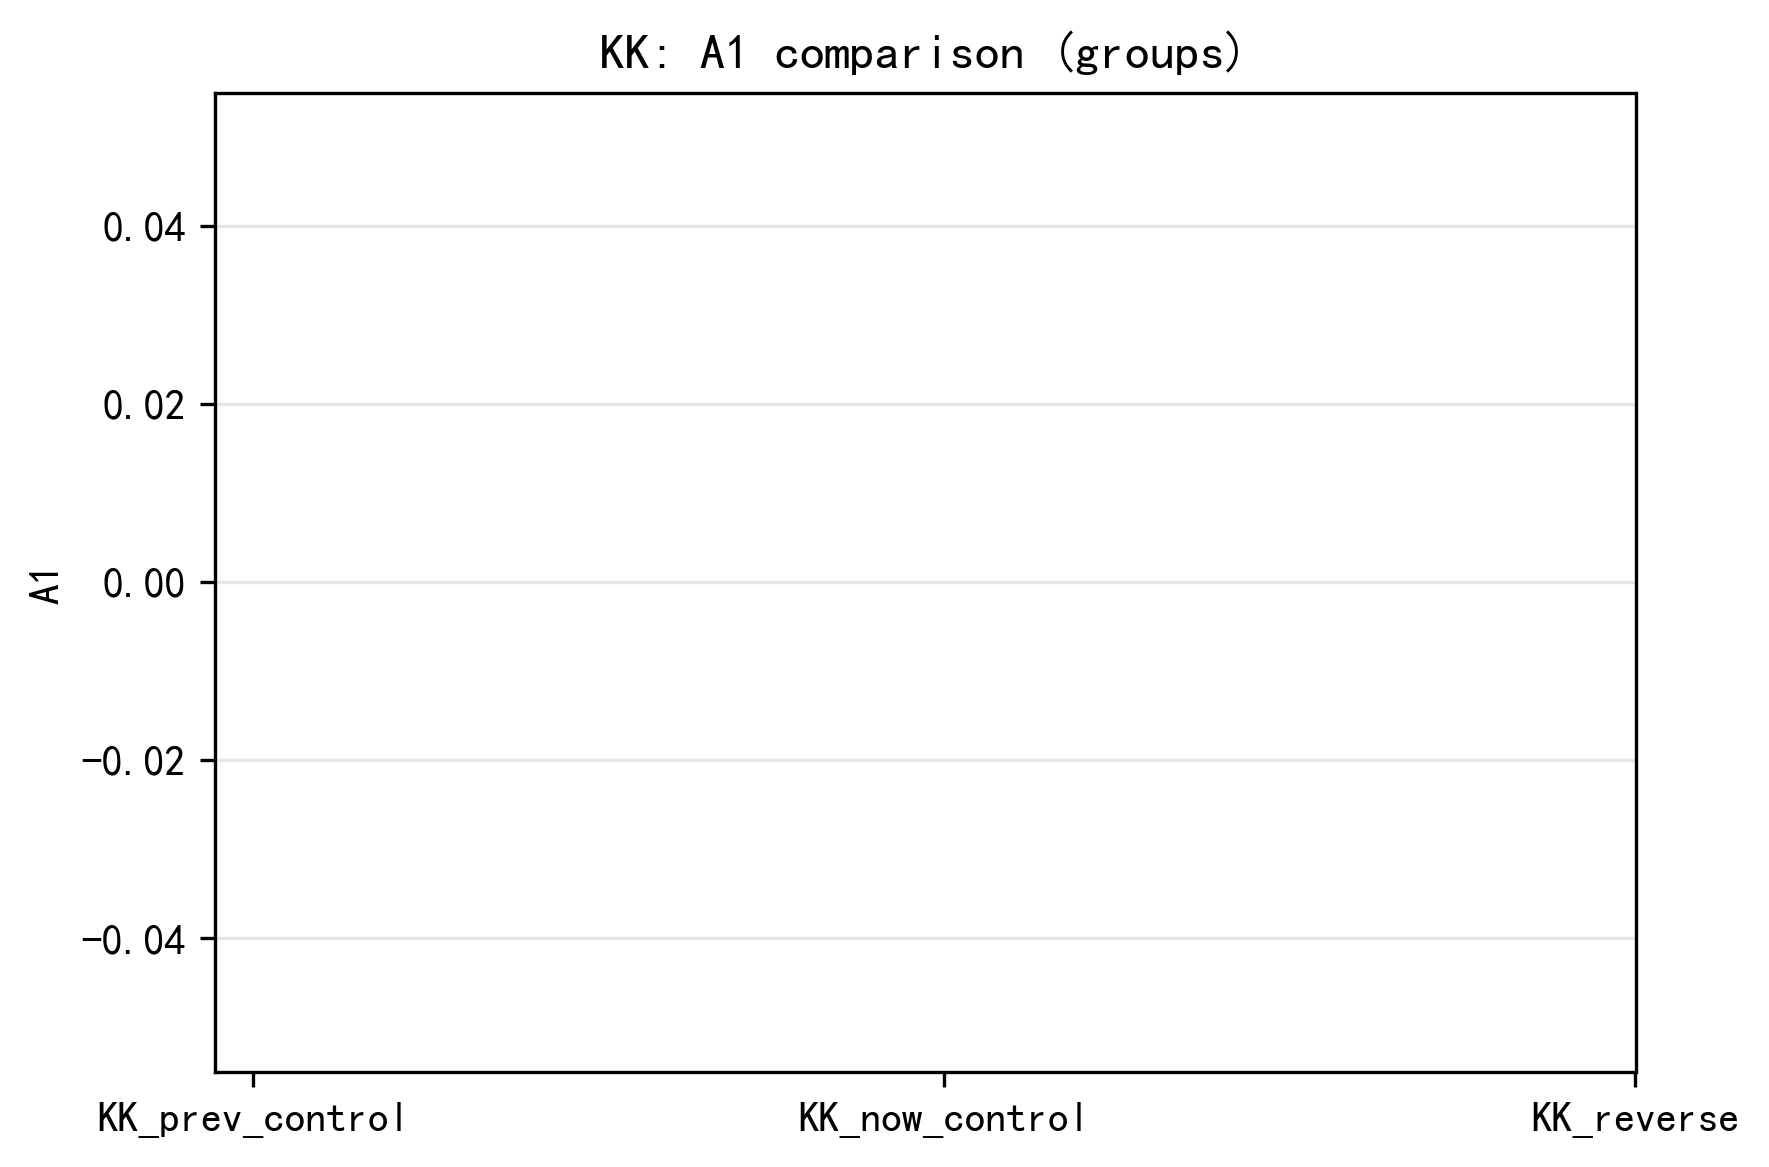
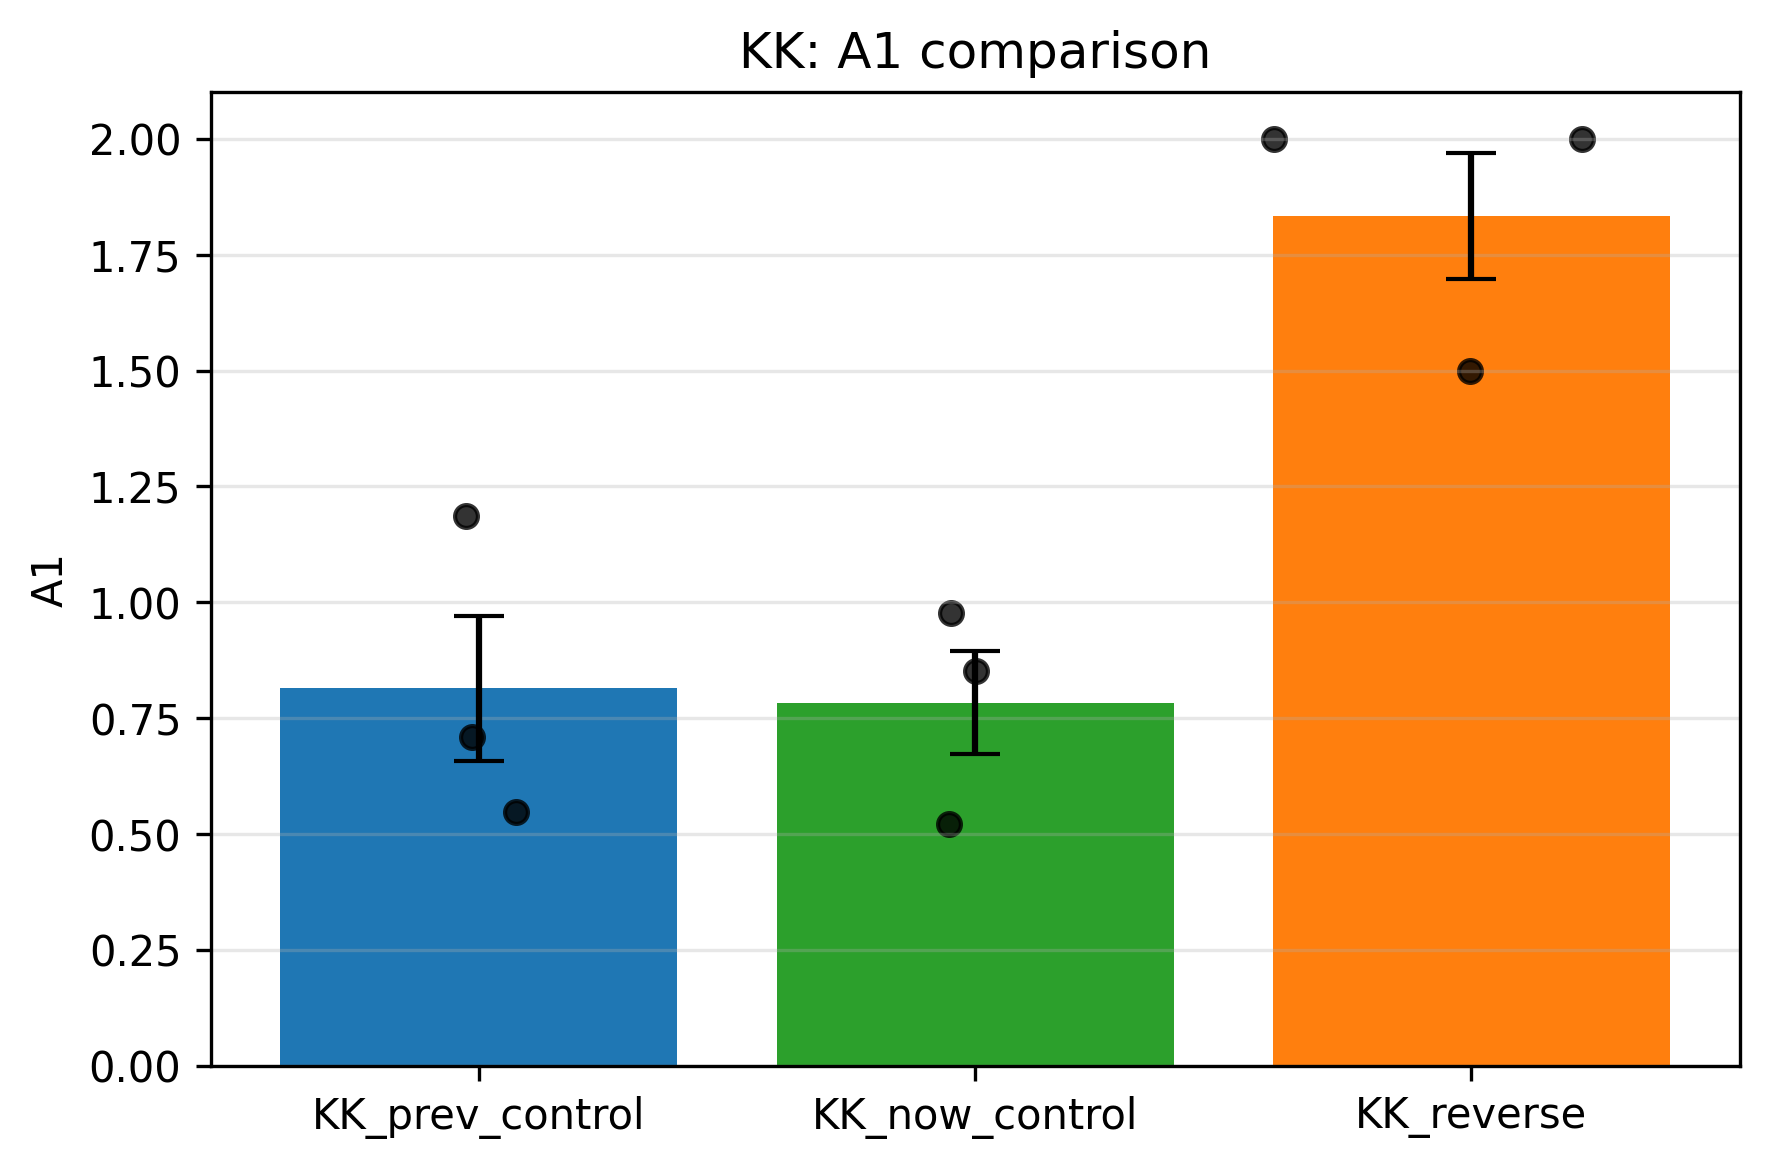
12

diff --git a/public/velocity_curve_analysis_cameraJump/kk_only.py b/public/velocity_curve_analysis_cameraJump/kk_only.py
@@ -35,8 +35,8 @@ def get_A1_from_file(p: Path):
         # 兼容部分文件把 A1 存在其它列名的情况（尝试 Velocity/Amplitude fallback）
         if "Amplitude1" in df.columns:
             return float(df["Amplitude1"].iloc[-1])
-    except Exception:
-        pass
+    except Exception as e:
+        print(f"Error reading A1 from {p}: {e}")
     return np.nan
 
 def get_params_from_file(p: Path):
@@ -127,15 +127,32 @@ def analyze_and_plot_A1_comparison(group_paths_list, group_names=None, out_png=N
     ax.set_xticks(x)
     ax.set_xticklabels(group_names)
     ax.set_ylabel('A1')
-    ax.set_title('KK: A1 comparison (groups)')
+    ax.set_title('KK: A1 comparison')
     ax.grid(axis='y', alpha=0.3)
 
     # overlay individual points with jitter
     for i, vals in enumerate(values_all):
         if vals.size == 0:
             continue
-        jitter = np.random.normal(0, 0.05, size=vals.size)
-        ax.scatter(np.full(vals.shape, x[i]) + jitter, vals, color='k', alpha=0.8, s=30)
+        
+        # 增加抖动强度，特别是对于相同值的点
+        base_jitter = 0.1  # 基础抖动范围
+        unique_vals, counts = np.unique(vals, return_counts=True)
+        
+        # 为每个值生成抖动位置
+        x_positions = []
+        for val in vals:
+            count = counts[unique_vals == val][0]
+            if count > 1:
+                # 对于重复值，使用更大的抖动
+                jitter_strength = base_jitter * (1 + count * 0.3)
+            else:
+                jitter_strength = base_jitter * 0.5
+            
+            jitter = np.random.normal(0, jitter_strength)
+            x_positions.append(x[i] + jitter)
+        
+        ax.scatter(x_positions, vals, color='k', alpha=0.8, s=30)
 
     plt.tight_layout()
     if out_png is None:
@@ -181,28 +198,108 @@ def analyze_groups_params_and_plot(group_paths_list, group_names=None, out_png=N
             else:
                 print(f"  {k}: n={arr.size}, mean={np.nanmean(arr):.4f}, std={np.nanstd(arr):.4f}, values={np.round(arr,4).tolist()}")
 
-    # 为条形图准备 A1 数据并调用现有绘图函数（保持向后兼容）
-    a1_groups = [np.array(g['A1'], dtype=float) for g in groups_params]
-    analyze_and_plot_A1_comparison(a1_groups, group_names=group_names, out_png=out_png or "KK_A1_comparison.png")
+    # 为所有参数绘制条形图
+    params_to_plot = ['V0', 'A1', 'φ1', 'A2', 'φ2']
+    
+    # 创建子图
+    fig, axes = plt.subplots(2, 3, figsize=(15, 10))
+    axes = axes.flatten()
+    
+    for param_idx, param in enumerate(params_to_plot):
+        ax = axes[param_idx]
+        
+        # 准备当前参数的数据
+        param_groups = [np.array(g[param], dtype=float) for g in groups_params]
+        
+        # 计算统计数据
+        means = []
+        stds = []
+        counts = []
+        for vals in param_groups:
+            counts.append(len(vals))
+            means.append(float(np.nan) if vals.size == 0 else float(np.nanmean(vals)))
+            stds.append(float(np.nan) if vals.size == 0 else float(np.nanstd(vals, ddof=0)))
+
+        # 画条形图（均值 + std error）
+        x = np.arange(len(group_names))
+        errs = [ (stds[i] / np.sqrt(counts[i])) if counts[i] > 0 else 0.0 for i in range(len(group_names)) ]
+
+        bars = ax.bar(x, means, yerr=errs, capsize=6, color=['#1f77b4','#2ca02c','#ff7f0e'][:len(group_names)])
+        ax.set_xticks(x)
+        ax.set_xticklabels(group_names, rotation=45, ha='right')
+        ax.set_ylabel(param)
+        ax.set_title(f'KK: {param} comparison')
+        ax.grid(axis='y', alpha=0.3)
+
+        # overlay individual points with jitter
+        for i, vals in enumerate(param_groups):
+            if vals.size == 0:
+                continue
+            
+            # 增加抖动强度，特别是对于相同值的点
+            base_jitter = 0.1  # 基础抖动范围
+            unique_vals, counts_unique = np.unique(vals, return_counts=True)
+            
+            # 为每个值生成抖动位置
+            x_positions = []
+            for val in vals:
+                count = counts_unique[unique_vals == val][0]
+                if count > 1:
+                    # 对于重复值，使用更大的抖动
+                    jitter_strength = base_jitter * (1 + count * 0.3)
+                else:
+                    jitter_strength = base_jitter * 0.5
+                
+                jitter = np.random.normal(0, jitter_strength)
+                x_positions.append(x[i] + jitter)
+            
+            ax.scatter(x_positions, vals, color='k', alpha=0.8, s=20)
+
+        # 打印当前参数的统计信息
+        print(f"\n=== {param} Bar Chart Data ===")
+        for name, cnt, m, s, vals in zip(group_names, counts, means, stds, param_groups):
+            if cnt == 0:
+                print(f"{name}: no valid {param} values found.")
+            else:
+                print(f"{name}: n={cnt}, mean {param} = {m:.4f}, std = {s:.4f}, values = {np.round(vals,4).tolist()}")
+
+    # 删除多余的子图
+    if len(params_to_plot) < len(axes):
+        axes[-1].remove()
+
+    plt.tight_layout()
+    if out_png is None:
+        out_png = "KK_all_parameters_comparison.png"
+    out_path = Path(out_png).resolve()
+    fig.savefig(out_path, dpi=300, bbox_inches='tight')
+    print(f"Saved all parameters comparison figure to: {out_path}  (exists={out_path.exists()})")
+
+    # 显示图表
+    try:
+        plt.show()
+    except Exception as e:
+        print("plt.show() failed:", e)
+        print("You can open the saved image file manually.")
+    plt.close(fig)
 
 def main():
     #之前的control数据
     extra_paths1 = [
-        Path(r"D:\vectionProject\public\BrightnessData\20250709_152809_Fps1_CameraSpeed1_ExperimentPattern_Phase_ParticipantName_KK_TrialNumber_1_BrightnessBlendMode_LinearOnly.csv"),
-        Path(r"D:\vectionProject\public\BrightnessData\20250709_151437_Fps1_CameraSpeed1_ExperimentPattern_Phase_ParticipantName_KK_TrialNumber_3_BrightnessBlendMode_LinearOnly.csv"),
-        Path(r"D:\vectionProject\public\BrightnessData\20250709_154001_Fps1_CameraSpeed1_ExperimentPattern_Phase_ParticipantName_KK_TrialNumber_2_BrightnessBlendMode_LinearOnly.csv"),
+        Path("../BrightnessData/20250709_152809_Fps1_CameraSpeed1_ExperimentPattern_Phase_ParticipantName_KK_TrialNumber_1_BrightnessBlendMode_LinearOnly.csv"),
+        Path("../BrightnessData/20250709_151437_Fps1_CameraSpeed1_ExperimentPattern_Phase_ParticipantName_KK_TrialNumber_3_BrightnessBlendMode_LinearOnly.csv"),
+        Path("../BrightnessData/20250709_154001_Fps1_CameraSpeed1_ExperimentPattern_Phase_ParticipantName_KK_TrialNumber_2_BrightnessBlendMode_LinearOnly.csv"),
     ]
     #现在的control数据
     extra_paths2 = [
-        Path(r"D:\vectionProject\public\ExperimentData3\20251102_181429_Fps1_CameraSpeed1_ExperimentPattern_Phase_ParticipantName_KK_TrialNumber_1_LinearOnly.csv"),
-        Path(r"D:\vectionProject\public\ExperimentData3\20251102_180357_Fps1_CameraSpeed1_ExperimentPattern_Phase_ParticipantName_KK_TrialNumber_2_LinearOnly.csv"),
-        Path(r"D:\vectionProject\public\ExperimentData3\20251102_181106_Fps1_CameraSpeed1_ExperimentPattern_Phase_ParticipantName_KK_TrialNumber_3_LinearOnly.csv"),
+        Path("../ExperimentData3/20251102_181429_Fps1_CameraSpeed1_ExperimentPattern_Phase_ParticipantName_KK_TrialNumber_1_LinearOnly.csv"),
+        Path("../ExperimentData3/20251102_180357_Fps1_CameraSpeed1_ExperimentPattern_Phase_ParticipantName_KK_TrialNumber_2_LinearOnly.csv"),
+        Path("../ExperimentData3/20251102_181106_Fps1_CameraSpeed1_ExperimentPattern_Phase_ParticipantName_KK_TrialNumber_3_LinearOnly.csv"),
     ]
     #现在的反方向数据
     extra_paths3 = [
-        Path(r"D:\vectionProject\public\ExperimentData33\20251104_155123_Fps1_CameraSpeed1_ExperimentPattern_CameraJumpMove_ParticipantName_KK_TrialNumber_1.csv"),
-        Path(r"D:\vectionProject\public\ExperimentData33\20251104_155424_Fps1_CameraSpeed1_ExperimentPattern_CameraJumpMove_ParticipantName_KK_TrialNumber_2.csv"),
-        Path(r"D:\vectionProject\public\ExperimentData33\20251104_155959_Fps1_CameraSpeed1_ExperimentPattern_CameraJumpMove_ParticipantName_KK_TrialNumber_3.csv"),
+        Path("../ExperimentData33/20251104_155123_Fps1_CameraSpeed1_ExperimentPattern_CameraJumpMove_ParticipantName_KK_TrialNumber_1.csv"),
+        Path("../ExperimentData33/20251104_155424_Fps1_CameraSpeed1_ExperimentPattern_CameraJumpMove_ParticipantName_KK_TrialNumber_2.csv"),
+        Path("../ExperimentData33/20251104_155959_Fps1_CameraSpeed1_ExperimentPattern_CameraJumpMove_ParticipantName_KK_TrialNumber_3.csv"),
     ]
     # Debug/analysis: 检查文件是否存在并打印列名样例，便于定位为什么没有打印/绘图
     for grp_name, paths in zip(["KK_prev_control", "KK_now_control", "KK_reverse"], [extra_paths1, extra_paths2, extra_paths3]):
@@ -215,12 +312,12 @@ def main():
                 except Exception as _e:
                     print(f"  failed to read sample: {_e}")
 
-    # 提取并打印 V0,A1,φ1,A2,φ2 并绘制 A1 比较图
+    # 提取并打印 V0,A1,φ1,A2,φ2 并绘制所有参数比较图
     try:
         analyze_groups_params_and_plot(
             [extra_paths1, extra_paths2, extra_paths3],
             group_names=["KK_prev_control", "KK_now_control", "KK_reverse"],
-            out_png="KK_A1_comparison.png"
+            out_png="KK_all_parameters_comparison.png"
         )
     except Exception as e:
         print("Group analysis failed:", e)

diff --git a/public/velocity_curve_analysis_cameraJump/test2.py b/public/velocity_curve_analysis_cameraJump/test2.py
@@ -1,25 +1,71 @@
 import numpy as np
 import matplotlib.pyplot as plt
 
-# 参数
-A1 = 0.815
-phi1 = 3.462
-A2 = 0.860
-phi2 = 5.854
+# 参与者参数
+participants = {
+    'YAMA': {'V0': 0.992, 'A1': 0.540, 'phi1': 1.849, 'A2': -0.528, 'phi2': 1.462},
+    'OMU': {'V0': 1.131, 'A1': 0.522, 'phi1': 2.528, 'A2': -0.223, 'phi2': 3.525},
+    'ONO': {'V0': 1.067, 'A1': 0.632, 'phi1': 3.663, 'A2': 0.461, 'phi2': 5.123},
+    'HOU': {'V0': 0.951, 'A1': 0.275, 'phi1': 3.031, 'A2': 0.920, 'phi2': 5.982},
+    'LL': {'V0': 1.027, 'A1': -0.278, 'phi1': 1.849, 'A2': -0.292, 'phi2': 3.728}
+}
+
 omega = 2 * np.pi
 
 # 时间轴 (0~4s)
 t = np.linspace(0, 4, 2000)
 
-# 速度函数
-v = -(A1 * np.sin(omega * t + phi1 + np.pi) + A2 * np.sin(2 * omega * t + phi2 + np.pi))
+# 颜色列表
+colors = ['darkgreen', 'red', 'blue', 'orange', 'purple']
 
 # 绘图
-plt.figure(figsize=(8, 3))
-plt.plot(t, v, color='darkgreen', linewidth=2)
-plt.title(r"$v(t) = -[A_1 \sin(\omega t + \phi_1 + \pi) + A_2 \sin(2\omega t + \phi_2 + \pi)]$", fontsize=11)
-plt.xlabel("Time (s)")
-plt.ylabel("v(t)")
-plt.grid(alpha=0.3)
+fig, axes = plt.subplots(2, 3, figsize=(18, 12))
+fig.suptitle("Velocity Functions Comparison for All Participants", fontsize=16)
+
+# 为每个参与者创建子图
+for i, (participant, params) in enumerate(participants.items()):
+    row = i // 3
+    col = i % 3
+    ax = axes[row, col]
+    
+    A1 = params['A1']
+    phi1 = params['phi1']
+    A2 = params['A2']
+    phi2 = params['phi2']
+    
+    # 速度函数（带负号和不带负号）
+    v_neg = -(A1 * np.sin(omega * t + phi1 + np.pi) + A2 * np.sin(2 * omega * t + phi2 + np.pi))
+    v_pos = (A1 * np.sin(omega * t + phi1 + np.pi) + A2 * np.sin(2 * omega * t + phi2 + np.pi))
+    
+    ax.plot(t, v_neg, color=colors[i], linewidth=2, alpha=0.8, 
+            label=f'-[A₁sin(ωt+φ₁+π) + A₂sin(2ωt+φ₂+π)]')
+    ax.plot(t, v_pos, color=colors[i], linewidth=2, linestyle='--', alpha=0.8,
+            label=f'A₁sin(ωt+φ₁+π) + A₂sin(2ωt+φ₂+π)')
+    
+    ax.set_title(f'{participant}: A₁={A1:.3f}, φ₁={phi1:.3f}, A₂={A2:.3f}, φ₂={phi2:.3f}', fontsize=10)
+    ax.set_xlabel("Time (s)")
+    ax.set_ylabel("v(t)")
+    ax.grid(alpha=0.3)
+    ax.legend(fontsize=8)
+
+# 删除空的子图
+axes[1, 2].remove()
+
+# 添加总体比较图
+ax_all = fig.add_subplot(2, 3, 6)
+for i, (participant, params) in enumerate(participants.items()):
+    A1 = params['A1']
+    phi1 = params['phi1']
+    A2 = params['A2']
+    phi2 = params['phi2']
+    
+    v_neg = -(A1 * np.sin(omega * t + phi1 + np.pi) + A2 * np.sin(2 * omega * t + phi2 + np.pi))
+    ax_all.plot(t, v_neg, color=colors[i], linewidth=2, label=f'{participant} (negative)')
+
+ax_all.set_title('All Participants - Negative Functions', fontsize=10)
+ax_all.set_xlabel("Time (s)")
+ax_all.set_ylabel("v(t)")
+ax_all.grid(alpha=0.3)
+ax_all.legend(fontsize=8)
 plt.tight_layout()
 plt.show()
